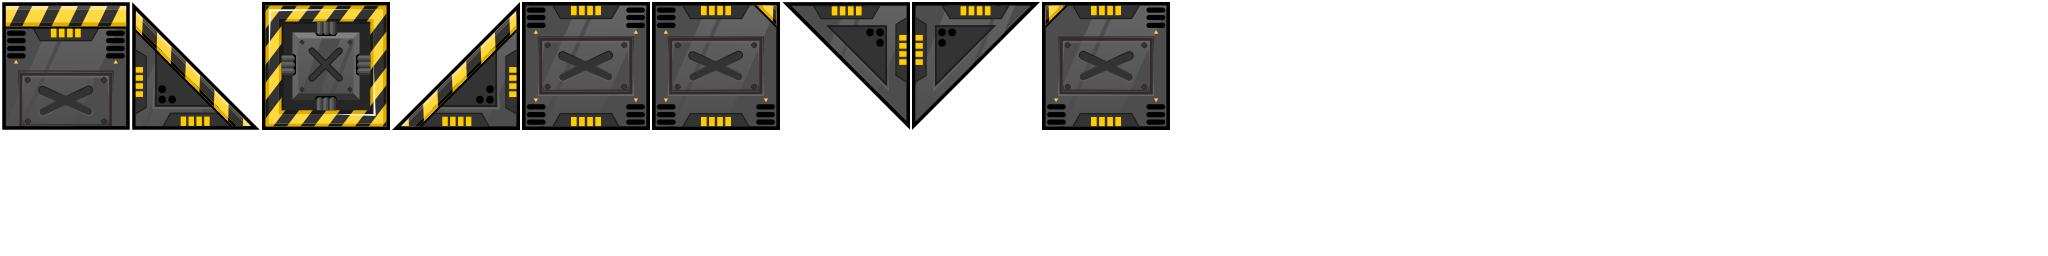
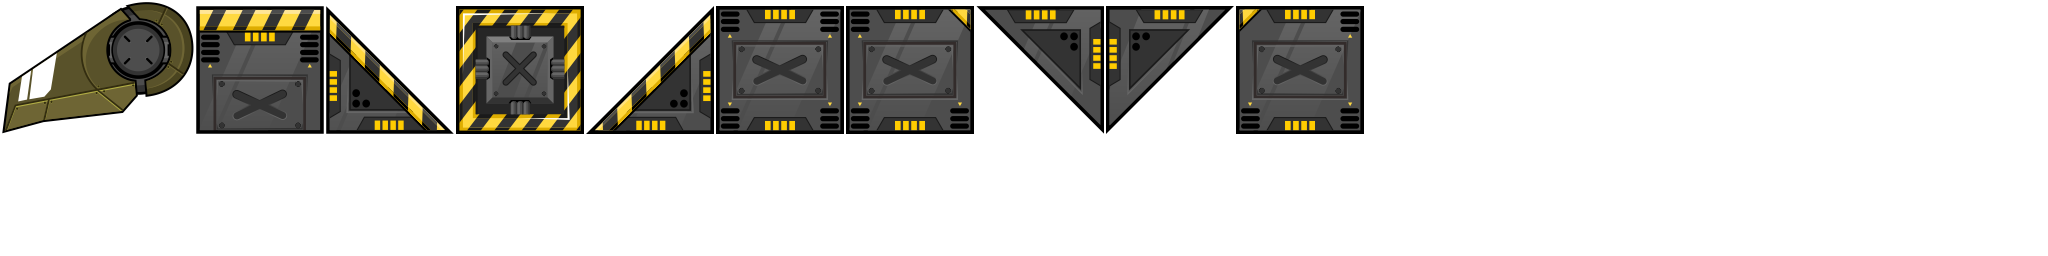
powerups taken from overlap2d maps

Changed region(s): [[0.0, 0.0, 0.6875, 0.5312]]

diff --git a/core/src/com/github/kjarmicki/arena/data/Overlap2dArenaData.java b/core/src/com/github/kjarmicki/arena/data/Overlap2dArenaData.java
@@ -1,15 +1,20 @@
 package com.github.kjarmicki.arena.data;
 
 import com.badlogic.gdx.Gdx;
+import com.badlogic.gdx.math.Vector2;
 import com.fasterxml.jackson.databind.DeserializationFeature;
 import com.fasterxml.jackson.databind.ObjectMapper;
-import com.github.kjarmicki.arena.object.ArenaObject;
-import com.github.kjarmicki.arena.object.ArenaObjectFactory;
+import com.github.kjarmicki.arena.tile.ArenaTile;
+import com.github.kjarmicki.powerup.Powerup;
 
 import java.io.IOException;
 import java.util.List;
+import java.util.Map;
+import java.util.Optional;
+import java.util.function.Supplier;
 
 import static java.util.stream.Collectors.toList;
+import static java.util.stream.Collectors.toMap;
 
 public class Overlap2dArenaData implements ArenaData {
     private final O2dArenaDataJson data;
@@ -24,10 +29,25 @@ public class Overlap2dArenaData implements ArenaData {
     }
 
     @Override
-    public List<ArenaObject> getArenaObjects() {
-        return data.getArenaObjects();
+    public List<ArenaTile> getTiles() {
+        return data.composite.sImages
+                .stream()
+                .map(sImage -> ArenaObjectFactory.tileFromAssetKey(sImage.imageName, sImage.x, sImage.y))
+                .filter(Optional::isPresent)
+                .map(Optional::get)
+                .collect(toList());
     }
 
+    @Override
+    public Map<Vector2, Supplier<Powerup>> getRespawnablePowerups() {
+        return data.composite.sImages
+                .stream()
+                .map(sImage -> ArenaObjectFactory.powerupWrapperFromAssetKey(sImage.imageName, sImage.x, sImage.y))
+                .filter(Optional::isPresent)
+                .map(Optional::get)
+                .collect(toMap(PowerupWrapper::getPosition, PowerupWrapper::getPowerupSupplier));
+
+    }
     // JSON structure
     static class O2dArenaDataJson {
         public Composite composite;
@@ -38,13 +58,6 @@ public class Overlap2dArenaData implements ArenaData {
                 public float y;
                 public String imageName;
             }
-        }
-
-        public List<ArenaObject> getArenaObjects() {
-            return composite.sImages
-                    .stream()
-                    .map(sImage -> ArenaObjectFactory.fromAssetKey(sImage.imageName, sImage.x, sImage.y))
-                    .collect(toList());
         }
     }
 }

diff --git a/client/src/com/github/kjarmicki/client/screen/ArenaScreen.java b/client/src/com/github/kjarmicki/client/screen/ArenaScreen.java
@@ -4,7 +4,6 @@ import com.badlogic.gdx.Gdx;
 import com.badlogic.gdx.ScreenAdapter;
 import com.badlogic.gdx.graphics.GL20;
 import com.badlogic.gdx.graphics.g2d.Batch;
-import com.badlogic.gdx.math.Vector2;
 import com.badlogic.gdx.utils.viewport.Viewport;
 import com.fasterxml.jackson.databind.ObjectMapper;
 import com.github.kjarmicki.arena.Arena;
@@ -28,14 +27,11 @@ import com.github.kjarmicki.container.PowerupsContainer;
 import com.github.kjarmicki.controls.Controls;
 import com.github.kjarmicki.entity.DumbEnemy;
 import com.github.kjarmicki.entity.Player;
-import com.github.kjarmicki.powerup.*;
+import com.github.kjarmicki.powerup.PowerupsRespawner;
 import com.github.kjarmicki.ship.Ship;
 import com.github.kjarmicki.ship.ShipFeatures;
 
 import java.util.Arrays;
-import java.util.HashMap;
-import java.util.Map;
-import java.util.function.Supplier;
 
 public class ArenaScreen extends ScreenAdapter {
     private final Batch batch;
@@ -80,13 +76,6 @@ public class ArenaScreen extends ScreenAdapter {
 
         bulletsContainer = new BulletsContainer();
 
-        powerupsContainer = new PowerupsContainer();
-        Map<Vector2, Supplier<Powerup>> respawnablePowerups = new HashMap<>();
-        respawnablePowerups.put(new Vector2(1000, 1000), BasicSecondaryWeaponPowerup::new);
-        respawnablePowerups.put(new Vector2(1300, 1300), AdvancedPrimaryWeaponPowerup::new);
-        respawnablePowerups.put(new Vector2(1500, 1500), FastWingPowerup::new);
-        powerupsRespawner = new PowerupsRespawner(respawnablePowerups, powerupsContainer);
-
         player = new Player(
                 controls
         );
@@ -94,7 +83,9 @@ public class ArenaScreen extends ScreenAdapter {
         enemy = new DumbEnemy();
         enemy.setShip(makeNewEnemyShip());
         arenaData = new Overlap2dArenaData(WarehouseArena.NAME, new ObjectMapper());
-        arena = new WarehouseArena(arenaData.getArenaObjects());
+        arena = new WarehouseArena(arenaData.getTiles());
+        powerupsContainer = new PowerupsContainer();
+        powerupsRespawner = new PowerupsRespawner(arenaData.getRespawnablePowerups(), powerupsContainer);
         chaseCamera = new ChaseCamera(viewport.getCamera(), arena, 9f);
         chaseCamera.snapAtNextObservable();
 

diff --git a/core/src/com/github/kjarmicki/arena/WarehouseArena.java b/core/src/com/github/kjarmicki/arena/WarehouseArena.java
@@ -2,7 +2,7 @@ package com.github.kjarmicki.arena;
 
 import com.badlogic.gdx.math.Rectangle;
 import com.github.kjarmicki.GunshipDeathmatch;
-import com.github.kjarmicki.arena.object.ArenaObject;
+import com.github.kjarmicki.arena.tile.ArenaTile;
 import com.github.kjarmicki.assets.ArenaSkin;
 import com.github.kjarmicki.assets.AssetKey;
 import com.github.kjarmicki.ship.ShipOwner;
@@ -15,16 +15,16 @@ public class WarehouseArena implements Arena {
     public static final int BACKGROUND_INDEX = 1;
     public static final String NAME = "warehouse";
 
-    private final List<ArenaObject> arenaObjects;
+    private final List<ArenaTile> arenaTiles;
 
-    public WarehouseArena(List<ArenaObject> arenaObjects) {
-        this.arenaObjects = arenaObjects;
+    public WarehouseArena(List<ArenaTile> arenaTiles) {
+        this.arenaTiles = arenaTiles;
     }
 
 
     @Override
-    public List<ArenaObject> getContents() {
-        return arenaObjects;
+    public List<ArenaTile> getContents() {
+        return arenaTiles;
     }
 
     @Override
@@ -54,7 +54,7 @@ public class WarehouseArena implements Arena {
                 .map(ShipOwner::getShip)
                 .forEach(ship -> {
                     ship.checkPlacementWithinBounds(getBounds());
-                    arenaObjects
+                    arenaTiles
                             .stream()
                             .forEach(ship::checkCollisionWith);
                 });

diff --git a/core/src/com/github/kjarmicki/arena/data/ArenaObjectFactory.java b/core/src/com/github/kjarmicki/arena/data/ArenaObjectFactory.java
@@ -1,0 +1,33 @@
+package com.github.kjarmicki.arena.data;
+
+import com.badlogic.gdx.math.Vector2;
+import com.github.kjarmicki.arena.tile.ArenaTile;
+import com.github.kjarmicki.arena.tile.BasicTile;
+import com.github.kjarmicki.powerup.FastWingPowerup;
+
+import java.util.HashMap;
+import java.util.Map;
+import java.util.Optional;
+import java.util.function.BiFunction;
+
+public class ArenaObjectFactory {
+    public static final Map<String, BiFunction<Float, Float, ArenaTile>>
+            ARENA_TILES_BY_ASSET_KEY = new HashMap<>();
+    public static final Map<String, BiFunction<Float, Float, PowerupWrapper>>
+            ARENA_POWERUPS_BY_ASSET_KEY = new HashMap<>();
+
+    static {
+        ARENA_TILES_BY_ASSET_KEY.put(BasicTile.getAssetString(), BasicTile::new);
+
+        ARENA_POWERUPS_BY_ASSET_KEY.put(FastWingPowerup.getAssetString(), (x, y) -> new PowerupWrapper(new Vector2(x, y), FastWingPowerup::new));
+    }
+    public static Optional<ArenaTile> tileFromAssetKey(String assetKey, float x, float y) {
+        return Optional.ofNullable(ARENA_TILES_BY_ASSET_KEY.get(assetKey))
+                .map(producer -> producer.apply(x, y));
+    }
+
+    public static Optional<PowerupWrapper> powerupWrapperFromAssetKey(String assetKey, float x, float y) {
+        return Optional.ofNullable(ARENA_POWERUPS_BY_ASSET_KEY.get(assetKey))
+                .map(producer -> producer.apply(x, y));
+    }
+}

diff --git a/core/src/com/github/kjarmicki/ship/Ship.java b/core/src/com/github/kjarmicki/ship/Ship.java
@@ -2,7 +2,7 @@ package com.github.kjarmicki.ship;
 
 import com.badlogic.gdx.math.Rectangle;
 import com.badlogic.gdx.math.Vector2;
-import com.github.kjarmicki.arena.object.ArenaObject;
+import com.github.kjarmicki.arena.tile.ArenaTile;
 import com.github.kjarmicki.assets.PartSkin;
 import com.github.kjarmicki.container.BulletsContainer;
 import com.github.kjarmicki.controls.Controls;
@@ -206,12 +206,12 @@ public class Ship {
                 });
     }
 
-    public void checkCollisionWith(ArenaObject arenaObject) {
+    public void checkCollisionWith(ArenaTile arenaTile) {
         allParts().stream()
-                .filter(myPart -> !myPart.collisionVector(arenaObject).equals(Points.ZERO))
+                .filter(myPart -> !myPart.collisionVector(arenaTile).equals(Points.ZERO))
                 .findFirst()
                 .ifPresent(myPart -> {
-                    Vector2 shift = myPart.collisionVector(arenaObject);
+                    Vector2 shift = myPart.collisionVector(arenaTile);
 
                     // rebound a ship off the object
                     velocity.x = rebound(velocity.x);

diff --git a/client/src/com/github/kjarmicki/client/rendering/ArenaRenderer.java b/client/src/com/github/kjarmicki/client/rendering/ArenaRenderer.java
@@ -3,13 +3,13 @@ package com.github.kjarmicki.client.rendering;
 import com.badlogic.gdx.graphics.g2d.Batch;
 import com.badlogic.gdx.graphics.g2d.TextureRegion;
 import com.github.kjarmicki.arena.Arena;
-import com.github.kjarmicki.arena.object.ArenaObject;
+import com.github.kjarmicki.arena.tile.ArenaTile;
 import com.github.kjarmicki.client.assets.ArenaAssets;
 
 public class ArenaRenderer implements Renderer {
     private final Arena arena;
     private final ArenaAssets arenaAssets;
-    private final ContainerRenderer<ArenaObject, ArenaAssets> containerRenderer;
+    private final ContainerRenderer<ArenaTile, ArenaAssets> containerRenderer;
 
     public ArenaRenderer(Arena arena, ArenaAssets arenaAssets) {
         this.arena = arena;

diff --git a/core/src/com/github/kjarmicki/container/BulletsContainer.java b/core/src/com/github/kjarmicki/container/BulletsContainer.java
@@ -1,7 +1,7 @@
 package com.github.kjarmicki.container;
 
 import com.badlogic.gdx.math.Rectangle;
-import com.github.kjarmicki.arena.object.ArenaObject;
+import com.github.kjarmicki.arena.tile.ArenaTile;
 import com.github.kjarmicki.ship.ShipOwner;
 import com.github.kjarmicki.ship.bullets.Bullet;
 import com.github.kjarmicki.util.Points;
@@ -53,7 +53,7 @@ public class BulletsContainer implements Container<Bullet> {
                 });
     }
 
-    public void checkCollisionWithArenaObjects(List<ArenaObject> objectList) {
+    public void checkCollisionWithArenaObjects(List<ArenaTile> objectList) {
         bulletsByOwners.entrySet()
                 .stream()
                 .map(Map.Entry::getKey)

diff --git a/core/src/com/github/kjarmicki/arena/data/PowerupWrapper.java b/core/src/com/github/kjarmicki/arena/data/PowerupWrapper.java
@@ -1,0 +1,25 @@
+package com.github.kjarmicki.arena.data;
+
+import com.badlogic.gdx.math.Vector2;
+import com.github.kjarmicki.powerup.Powerup;
+
+import java.util.function.Supplier;
+
+// intermediate class to keep position-powerup relation
+class PowerupWrapper {
+    private final Vector2 position;
+    private final Supplier<Powerup> powerupSupplier;
+
+    PowerupWrapper(Vector2 position, Supplier<Powerup> powerup) {
+        this.position = position;
+        this.powerupSupplier = powerup;
+    }
+
+    Vector2 getPosition() {
+        return position;
+    }
+
+    Supplier<Powerup> getPowerupSupplier() {
+        return powerupSupplier;
+    }
+}

diff --git a/core/src/com/github/kjarmicki/arena/tile/BasicTile.java b/core/src/com/github/kjarmicki/arena/tile/BasicTile.java
@@ -1,4 +1,4 @@
-package com.github.kjarmicki.arena.object;
+package com.github.kjarmicki.arena.tile;
 
 import com.badlogic.gdx.math.Polygon;
 import com.github.kjarmicki.assets.ArenaSkin;
@@ -7,7 +7,7 @@ import com.github.kjarmicki.basis.GenericVisibleThing;
 import com.github.kjarmicki.ship.bullets.Bullet;
 import com.github.kjarmicki.util.Points;
 
-public class BasicTile extends GenericVisibleThing implements ArenaObject {
+public class BasicTile extends GenericVisibleThing implements ArenaTile {
     public static final float WIDTH = 128f;
     public static final float HEIGHT = WIDTH;
     public static final int SKIN_INDEX = 1;

diff --git a/core/src/com/github/kjarmicki/arena/Arena.java b/core/src/com/github/kjarmicki/arena/Arena.java
@@ -1,14 +1,14 @@
 package com.github.kjarmicki.arena;
 
 import com.badlogic.gdx.math.Rectangle;
-import com.github.kjarmicki.arena.object.ArenaObject;
+import com.github.kjarmicki.arena.tile.ArenaTile;
 import com.github.kjarmicki.assets.AssetKey;
 import com.github.kjarmicki.container.Container;
 import com.github.kjarmicki.ship.ShipOwner;
 
 import java.util.List;
 
-public interface Arena extends Container<ArenaObject> {
+public interface Arena extends Container<ArenaTile> {
     Rectangle getBounds();
     AssetKey getBackgroundAssetKey();
     float getWidth();

diff --git a/core/src/com/github/kjarmicki/arena/data/ArenaData.java b/core/src/com/github/kjarmicki/arena/data/ArenaData.java
@@ -1,9 +1,14 @@
 package com.github.kjarmicki.arena.data;
 
-import com.github.kjarmicki.arena.object.ArenaObject;
+import com.badlogic.gdx.math.Vector2;
+import com.github.kjarmicki.arena.tile.ArenaTile;
+import com.github.kjarmicki.powerup.Powerup;
 
 import java.util.List;
+import java.util.Map;
+import java.util.function.Supplier;
 
 public interface ArenaData {
-    List<ArenaObject> getArenaObjects();
+    List<ArenaTile> getTiles();
+    Map<Vector2, Supplier<Powerup>> getRespawnablePowerups();
 }

diff --git a/client/src/com/github/kjarmicki/client/GunshipDeathmatchClient.java b/client/src/com/github/kjarmicki/client/GunshipDeathmatchClient.java
@@ -4,7 +4,6 @@ import com.badlogic.gdx.Game;
 import com.badlogic.gdx.graphics.g2d.SpriteBatch;
 import com.badlogic.gdx.utils.viewport.FitViewport;
 import com.badlogic.gdx.utils.viewport.Viewport;
-import com.github.kjarmicki.GunshipDeathmatch;
 import com.github.kjarmicki.client.controls.Keyboard;
 import com.github.kjarmicki.client.debugging.Debugger;
 import com.github.kjarmicki.client.screen.ArenaScreen;
